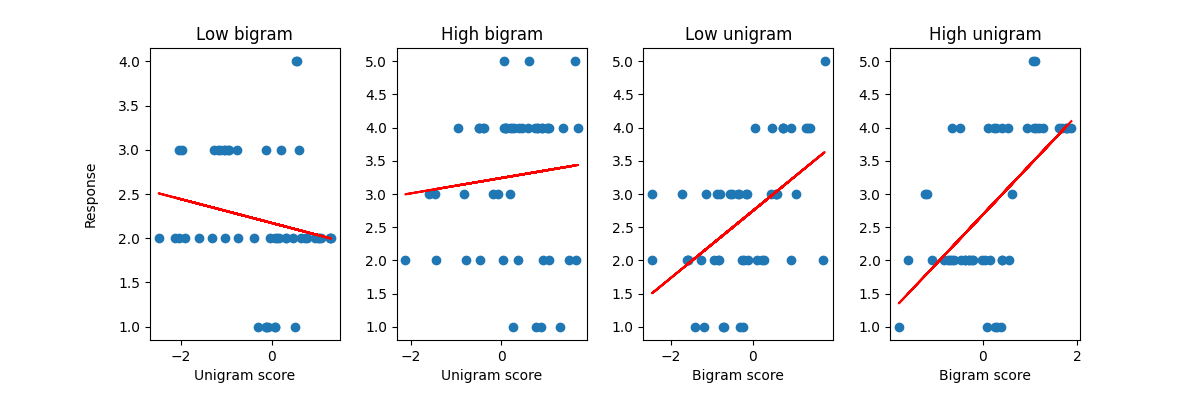
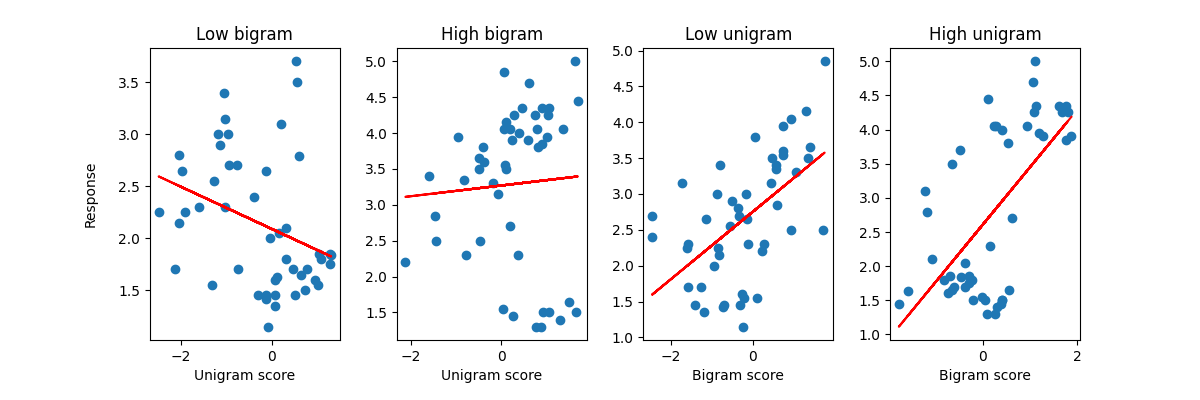
Update Daland metric output/model outcomes/plots after using un-rounded Likert ratings as response data

diff --git a/daland/clean_daland_data.py b/daland/clean_daland_data.py
@@ -17,5 +17,5 @@ df["word"].to_csv(f"{dir}daland-test-data.csv", index=False, header=False)
 # Clean metric output csv
 df_metric = pd.read_csv(f"{dir}daland_original_metric_output.csv")
 df_metric.replace(float('-inf'), -50, inplace=True)
-df_metric["rating"] = round(df["likert_rating"])
+df_metric["rating"] = df["likert_rating"]
 df_metric.to_csv(f"{dir}daland_cleaned_metric_output.csv", index=False)
